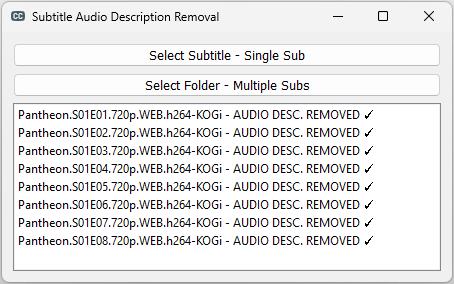
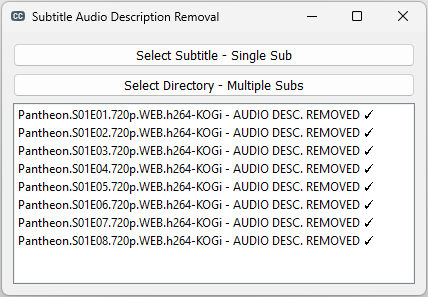
os walk fix, naming

diff --git a/main.py b/main.py
@@ -12,7 +12,7 @@ from pathlib import Path
 
 app = QApplication(sys.argv)
 window = QWidget()
-window.resize(450, 250)
+window.resize(650, 250)
 window.setWindowIcon(QIcon(str(Path(Path(__file__).parent, 'docs/icon.png'))))
 window.setWindowTitle("Subtitle Audio Description Removal")
 listWidget = QListWidget()
@@ -31,18 +31,15 @@ def button_single_subtitle_clicked():
         grouped_actions(sub_path, CONFIRMATION_TEXT)
 
 
-''' MULTIPLE SUBS - ALL SUBS IN THE GIVEN FOLDER AND IT`S SUBFOLDER '''
+''' MULTIPLE SUBS - ALL SUBS IN THE GIVEN DIRECTORY AND IT`S SUBDIRECTORIES '''
 def button_bulk_subtitle_clicked():
-    dialog_add_folder = QFileDialog()
-    dialog_add_folder.setFileMode(QFileDialog.FileMode.Directory)
-    dialog_add_folder.setWindowTitle("Select a folder")
-    dialog_add_folder.exec()
-    if dialog_add_folder.result():
-        for dir_path, dir_names, file_names in os.walk(dialog_add_folder.selectedFiles()[0]):
+    dialog_add_directory = QFileDialog()
+    dialog_add_directory.setFileMode(QFileDialog.FileMode.Directory)
+    dialog_add_directory.setWindowTitle("Select a directory")
+    dialog_add_directory.exec()
+    if dialog_add_directory.result():
+        for dir_path, dir_names, file_names in os.walk(dialog_add_directory.selectedFiles()[0]):
             bulk_subs(dir_path, file_names)
-        for sub_dir in dir_names:
-            for sub_dir_path, sub_dir_names, sub_file_names in os.walk(dir_path, sub_dir):
-                bulk_subs(sub_dir_path, sub_file_names)
 
 
 def bulk_subs(dir_path, file_names):
@@ -71,17 +68,17 @@ def grouped_actions(sub_path, CONFIRMATION_TEXT):
 
 ''' AUDIO DESCRIPTION REMOVAL  '''
 def sub_ad_removal(sub_path, sub_list_name, sub_new_name): 
-    parent_folder = Path(sub_path).parent
+    parent_directory = Path(sub_path).parent
     file = open(sub_path, errors='ignore')  # avoiding text encoding errors
-    newFile = open(Path(parent_folder, sub_new_name),'w')  
-    sub_dic[sub_list_name] = parent_folder
+    newFile = open(Path(parent_directory, sub_new_name),'w')  
+    sub_dic[sub_list_name] = parent_directory
     
     fileList = list(file)
     slicedList = []
 
     for i in range(len(fileList)):    
-        sliced = fileList[i].split()   # cutting up the text
-        slicedList.append(sliced)      # collecting the new/transformed items in a new list       
+        sliced = fileList[i].split()   
+        slicedList.append(sliced)       
     for i in slicedList:
         for k in i:
             if ('(' in k and ')' in k or
@@ -92,17 +89,17 @@ def sub_ad_removal(sub_path, sub_list_name, sub_new_name):
                 slicedList.remove(i)                # very small chance: there are lines where both previous conditions are true
                                                     # and we remove a line with a non-commentary text
     for i in slicedList:             
-        newFile.writelines(' '.join(i))  # add a space between the list items
+        newFile.writelines(' '.join(i))
         newFile.write('\n')              
 
     file.close()
     newFile.close()
 
 
-''' DOUBLE-CLICK IN THE RESULT LIST --> OPEN THE FOLDER '''
-def open_folder():
-    webbrowser.open(sub_dic[listWidget.currentItem().text()])  
-listWidget.itemDoubleClicked.connect(open_folder)
+''' OPEN THE SUB`S DIRECTORY '''
+def open_directory():
+    webbrowser.open(sub_dic[listWidget.currentItem().text()])
+listWidget.itemDoubleClicked.connect(open_directory)
 
 
 ''' BUTTONS '''
@@ -111,7 +108,7 @@ button_single_subtitle.setCursor(Qt.CursorShape.PointingHandCursor)
 button_single_subtitle.clicked.connect(button_single_subtitle_clicked)
 button_single_subtitle.setFont(QFont('Times', 10, 500))
 
-button_bulk_subtitle = QPushButton(window, text='Select Folder - Multiple Subs')
+button_bulk_subtitle = QPushButton(window, text='Select Directory - Multiple Subs')
 button_bulk_subtitle.setCursor(Qt.CursorShape.PointingHandCursor)
 button_bulk_subtitle.clicked.connect(button_bulk_subtitle_clicked)
 button_bulk_subtitle.setFont(QFont('Times', 10, 500))

diff --git a/README.md b/README.md
@@ -2,14 +2,14 @@
 - `SADR` removes the audio description like [Horns honking in distance], (Indistinct conversations) from the subtitles
 - `Select Subtitle - Single Sub`
     - Able to select an `.srt` file
-    - Typically, ideal for movies
-- `Select Folder - Multiple Subs`
-    - In the added folder and all in it's first-degree subfolders all the `.srt` files will be transitioned
+    - Typically ideal for movies
+- `Select Directory - Multiple Subs`
+    - In the added directory and all in it's subdirectories all the `.srt` files will be transformed
     - Typically ideal for series, TV shows
 - Once the file or folder selected, the conversation and listing are triggered automatically
 - The new subtitle is saved in the same folder of the original subtitle
 - Double clicking in the result list:
-    - Opens the folder of the selected subtitle in `File Explorer`
+    - Opens the directory of the selected subtitle in `File Explorer`
 
 <div align="center">
     <img src="docs/screenshoot.png">
